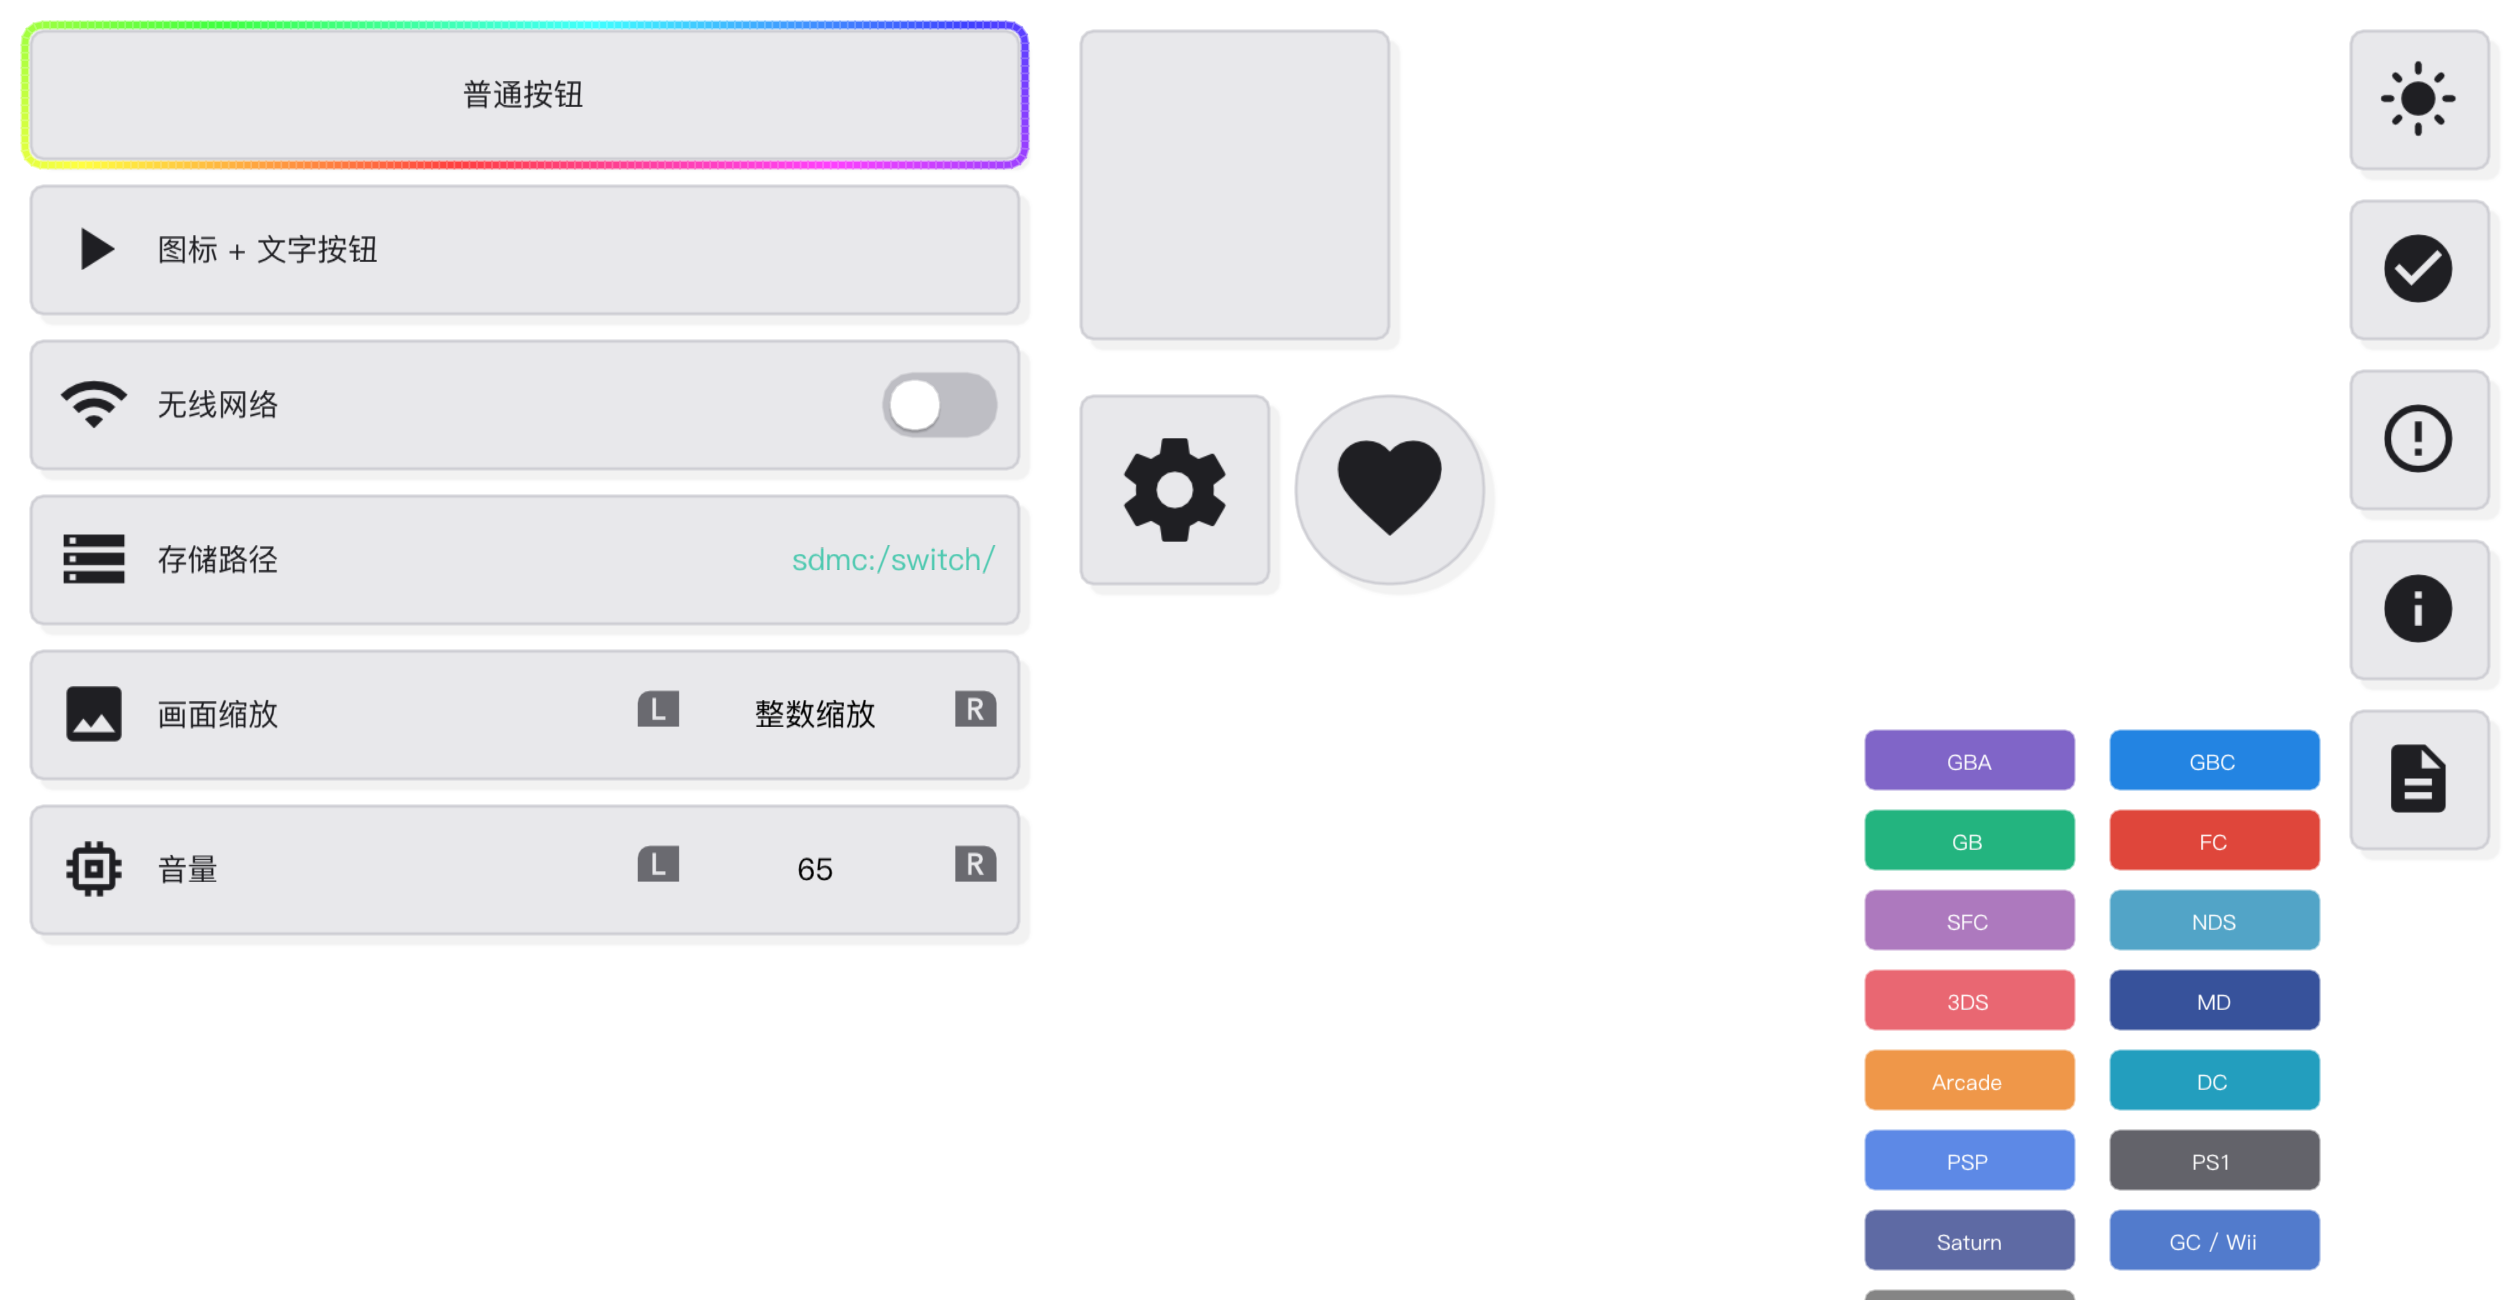
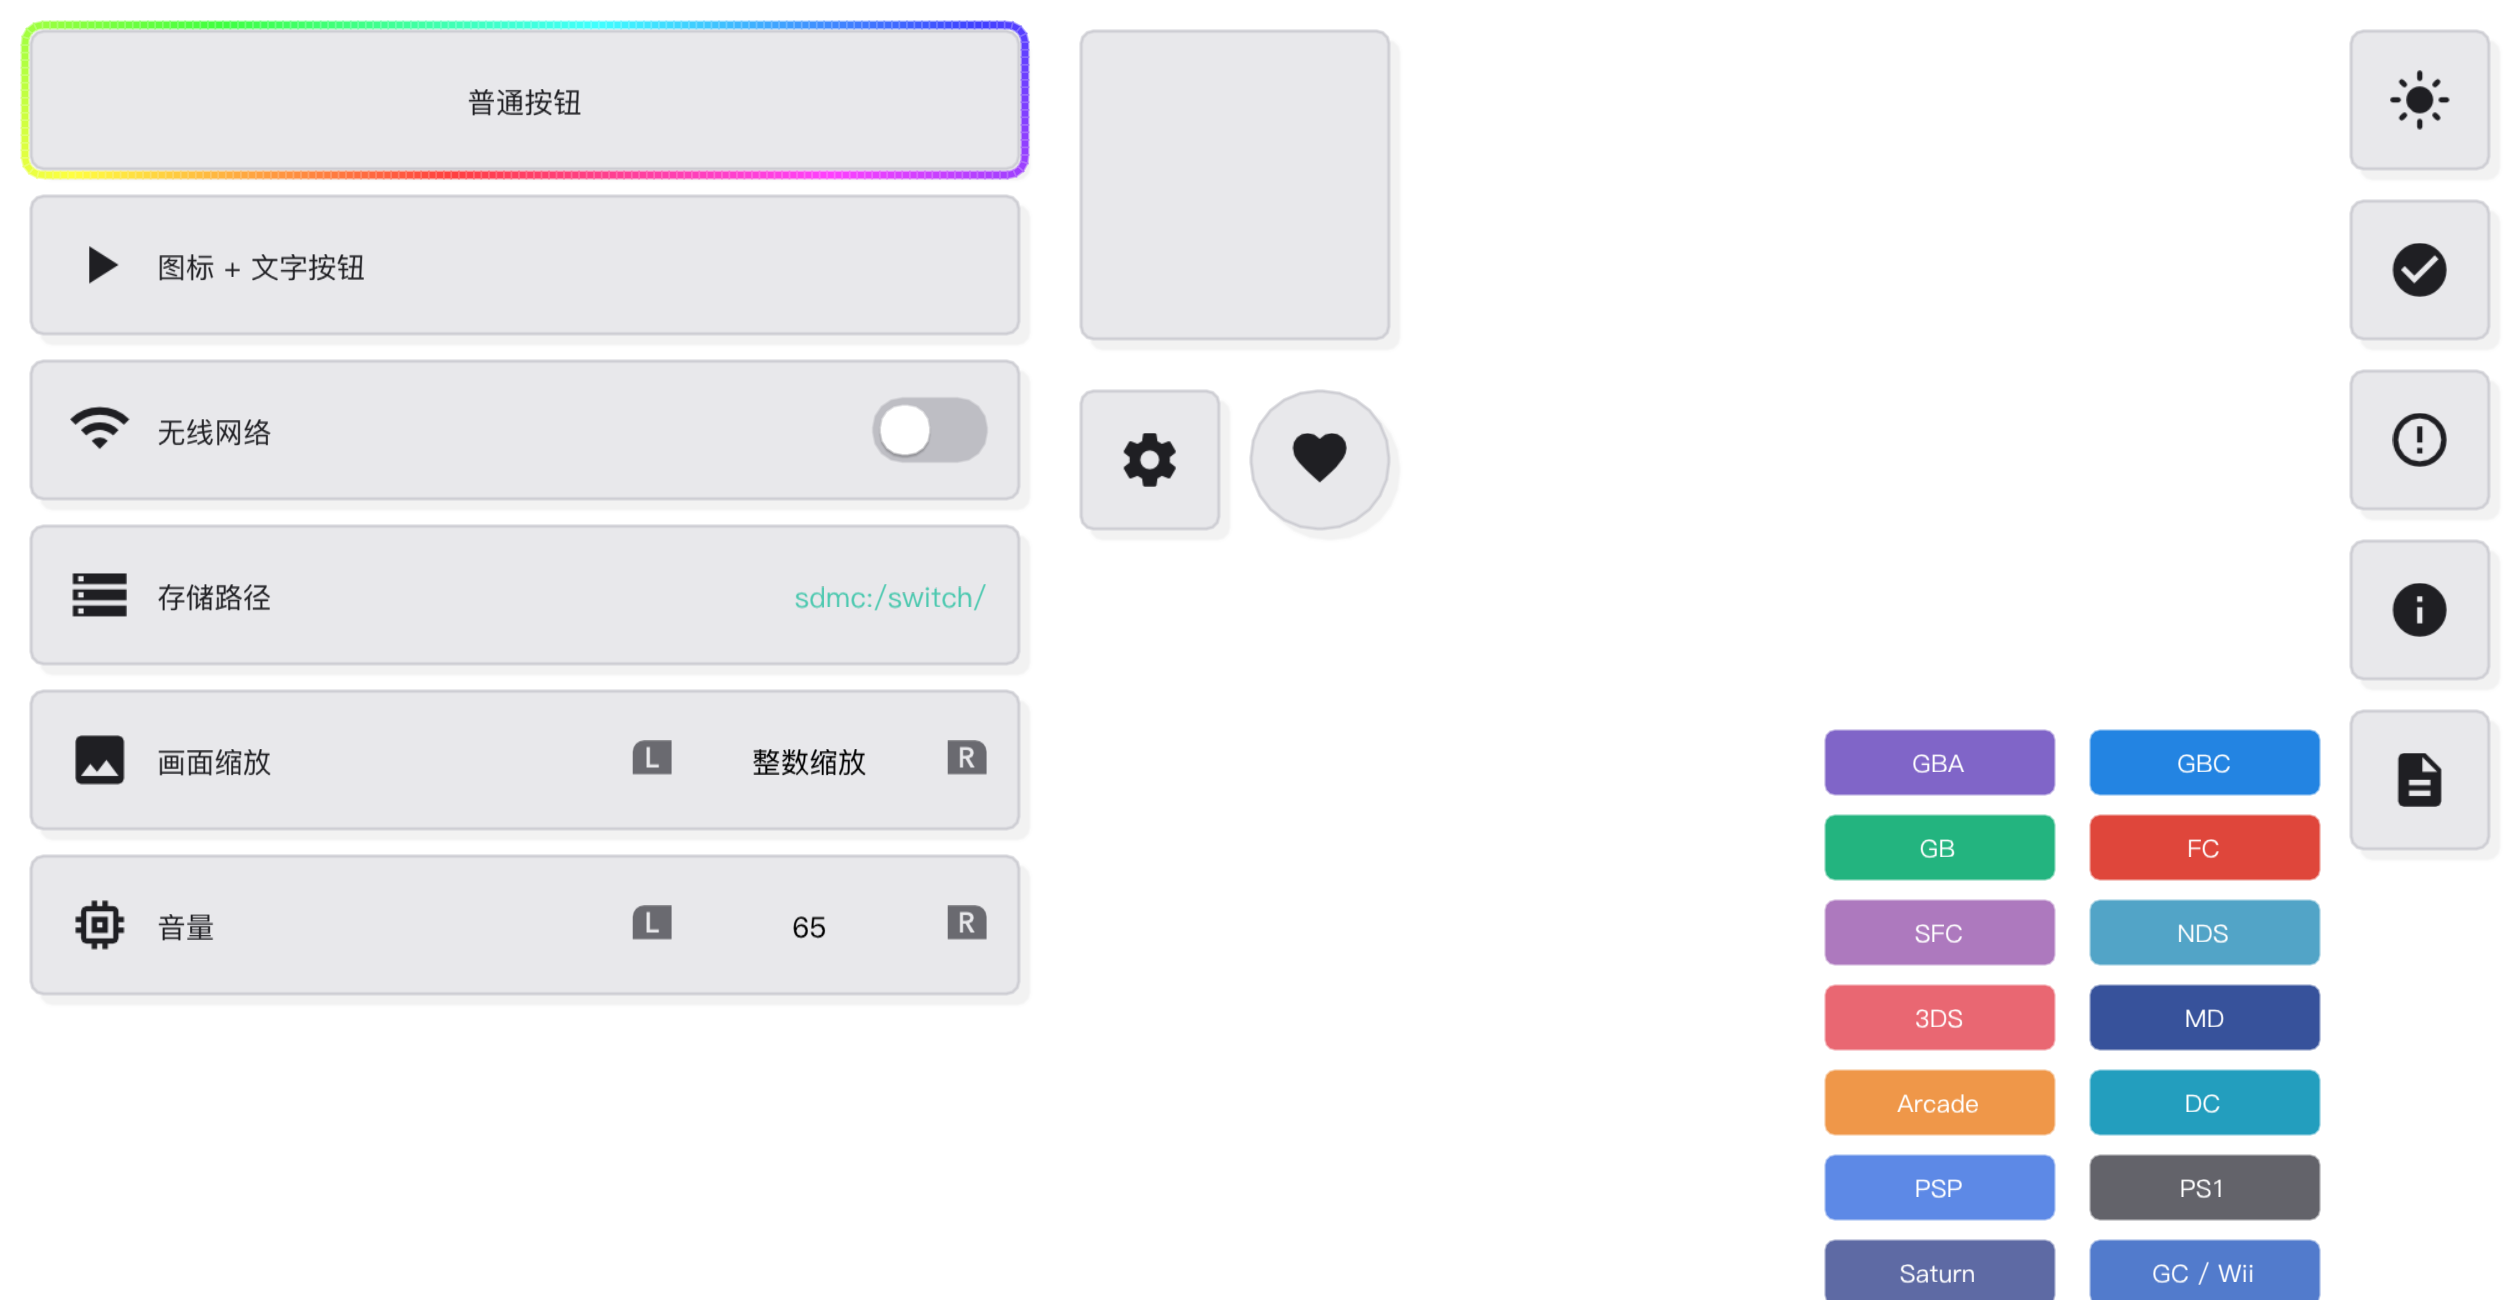
统一字号与控件尺寸（参考 GBAStation SettingPage）
尺寸只留一处定义：component_view/Theme.h 的常量，组件与 demo 全部引用，不再各写一套字面量。
基准抄 GBAStation src/ui/page/SettingPage.cpp 的手持尺寸：
- 字号：kFontTitle 26→22、kFontHeader 19→20（SettingPage 的 SettingsSectionHeaderView
  nvgFontSize 20、行高 58）、kFontBody 17→16（页面里最常用）、kFontSmall 13→14（makeHint 的
  setFontSize(14.f)）、kFontTiny 11→12。
- 控件：kControlHeight 34→**56**（SettingPage 标题行 58、卡片行 54~60）；新增 kBadgeHeight = 26。
- 内容留白：component_style.content_padding 8→12。

组件改为引用常量：
- Button：默认字号 = kFontBody、subtitle = kFontSmall、最小高 = kControlHeight（图标格仍=内容高度）；
- Badge：默认字号 = kFontSmall(14)、高 = kBadgeHeight(26)；
- Toast：正文 = kFontBody(16)、最小高 = kControlHeight(56)、内边距 16/12、图标 22；
- demo：左列按钮高 = kControlHeight、图标按钮边长 = kControlHeight(56×56)、控制列按钮 = kControlHeight。

实测（1.25 倍缩放抓帧量像素）：左列 6 个按钮与控制列 5 个按钮每个 56 高、间距 10；
图标按钮 56×56（说明行在下方）；Toast 高 56（色条 22..74）；徽标统一 92×26、两列、行距 32、白字。
mac Debug/Release + Switch 均编译通过；ctest 全绿；6 个 demo 退出码 0；快照已更新。

diff --git a/demo.cpp b/demo.cpp
@@ -63,7 +63,7 @@ public:
         // 右下角阴影 / 流光聚焦框（与按钮留 2px 边距）。单个按钮可以用 setBorder() 等覆盖。
         const float x = 20.0f;
         const float width = 396.0f;
-        const float height = 52.0f;
+        const float height = Theme::kControlHeight; // 统一行高（56）
         const float gap = 10.0f;
         float cursor = 20.0f;
         const auto place = [&](Button* button, const char* name) {
@@ -132,16 +132,16 @@ public:
         // 3 纯图标按钮：只有圆角正方形和圆形两种形态，边长 setSide()；
         // 有说明行时说明行落到图标下方居中（图标格自动给说明行让位）
         IconButton* icon_square = Root().Emplace<IconButton>(Icons::Glyph(Icons::Material::Settings));
-        icon_square->setSide(76.0f);
+        icon_square->setSide(Theme::kControlHeight);
         icon_square->setShape(IconButtonShape::RoundedSquare);
         icon_square->setSubtitle("圆角方形");
-        icon_square->moveTo(440.0f, 166.0f);
+        icon_square->moveTo(440.0f, kIconRowY);
         buttons_.push_back(icon_square);
 
         IconButton* icon_circle = Root().Emplace<IconButton>(Icons::Glyph(Icons::Material::Favorite));
-        icon_circle->setSide(76.0f);
+        icon_circle->setSide(Theme::kControlHeight);
         icon_circle->setShape(IconButtonShape::Circle);
-        icon_circle->moveTo(526.0f, 166.0f);
+        icon_circle->moveTo(440.0f + Theme::kControlHeight + 12.0f, kIconRowY);
         icon_circle->setSubtitle("圆形");
         buttons_.push_back(icon_circle);
 
@@ -263,7 +263,8 @@ public:
 
 private:
     // 控制列参数：贴右边缘 20px，按钮边长 56px
-    static constexpr float kControlSize = 56.0f;
+    static constexpr float kControlSize = Theme::kControlHeight; // 统一控件尺寸（56）
+    static constexpr float kIconRowY = 164.0f; // 两个图标按钮的 y（在 Box 下方）
     static constexpr float kControlRight = 20.0f;
     static constexpr float kControlTop = 20.0f;
 
@@ -276,8 +277,8 @@ private:
 
     // 徽标墙几何
     // 徽标墙：两列，统一尺寸
-    static constexpr float kBadgeWidth = 84.0f;
-    static constexpr float kBadgeHeight = 24.0f;
+    static constexpr float kBadgeWidth = 92.0f;
+    static constexpr float kBadgeHeight = Theme::kBadgeHeight; // 统一标签高（26）
     static constexpr float kBadgeGapX = 14.0f;
     static constexpr float kBadgeGapY = 8.0f;
     static constexpr float kBadgeTop = 300.0f;

diff --git a/component_view/Theme.h b/component_view/Theme.h
@@ -102,13 +102,16 @@ inline constexpr ImVec4 kShadow = rgba(0, 0, 0, 140); // #0000008C
 inline constexpr ImVec4 kShadowSoft = rgba(0, 0, 0, 80); // #00000050
 
 // ---- 尺寸（720p 设计空间，后端按 UiScale 统一放大） -------------------------
-// 基准是「720p 手持屏」：字号/行高/间距都按在 6 寸屏上握着看设计，
-// 不是桌面显示器上看的比例。改这里就能整体调整密度。
-inline constexpr float kFontTitle  = 26.0f;
-inline constexpr float kFontHeader = 19.0f;
-inline constexpr float kFontBody   = 17.0f;
-inline constexpr float kFontSmall  = 13.0f;
-inline constexpr float kFontTiny   = 11.0f;
+// 基准对齐 GBAStation 的 SettingPage（borealis 那套手持尺寸）：
+//   区块标题 20~22 / 正文 16 / 说明 14 / 极小 12
+//   行高（按钮、列表行）56：SettingPage 的标题行 58、卡片行 54~60 都落在这个量级
+//   标签（机种徽标）26 高，字号用说明字号 14
+// 组件（Box / Button / Badge / Toast）只允许引用这里的常量，不要再各写一套字面量。
+inline constexpr float kFontTitle  = 22.0f; // 大标题 / 卡片标题
+inline constexpr float kFontHeader = 20.0f; // 区块标题（SettingPage 的 section header = 20）
+inline constexpr float kFontBody   = 16.0f; // 正文：按钮主文字、Toast 正文
+inline constexpr float kFontSmall  = 14.0f; // 说明行 / 提示 / 徽标文字
+inline constexpr float kFontTiny   = 12.0f; // 极小号
 
 inline constexpr float kRadiusNone  = 0.0f;
 inline constexpr float kRadiusSmall = 3.0f;
@@ -119,7 +122,8 @@ inline constexpr float kGapSmall = 6.0f;
 inline constexpr float kGap      = 10.0f;
 inline constexpr float kGapLarge = 16.0f;
 
-inline constexpr float kControlHeight = 34.0f;
+inline constexpr float kControlHeight = 56.0f; // 按钮 / 列表行统一高度
+inline constexpr float kBadgeHeight   = 26.0f; // 机种徽标（标签）高度
 inline constexpr float kListRowHeight = 32.0f;
 inline constexpr float kKeySize       = 30.0f;
 

diff --git a/component_view/Toast.h b/component_view/Toast.h
@@ -19,6 +19,7 @@
 
 #include <imgui.h>
 
+#include "component_view/Theme.h"
 #include "component_view/Types.h"
 
 namespace gui_dev::cv {
@@ -40,14 +41,14 @@ enum class ToastState {
 struct ToastStyle {
     float min_width = 200.0f;
     float max_width = 320.0f;
-    float min_height = 44.0f;
+    float min_height = Theme::kControlHeight; // 和按钮/行高一致（56）
     float bar_width = 4.0f;     // 左侧状态色条宽度
     float bar_inset = 2.0f;     // 色条离边框的留白（左/上/下都是它）
-    float icon_size = 20.0f;    // Material 图标字号
+    float icon_size = 22.0f;    // Material 图标字号
     float gap = 10.0f;          // 色条 ↔ 图标 ↔ 文本 的间距
-    float padding_x = 14.0f;    // 色条之外的内容左右留白
-    float padding_y = 10.0f;    // 内容上下留白
-    float text_size = 15.0f;    // 文本字号（0 = 用 Theme::kFontBody）
+    float padding_x = 16.0f;    // 色条之外的内容左右留白
+    float padding_y = 12.0f;    // 内容上下留白
+    float text_size = Theme::kFontBody; // 文本字号统一 16
     float enter_duration = 0.25f;
     float exit_duration = 0.25f;
     float visible_duration = 3.0f; // 入场完成之后才开始算

diff --git a/component_view/components/Badge.h b/component_view/components/Badge.h
@@ -57,8 +57,8 @@ enum class BadgeStyle {
 
 // 变体的几何参数（宿主也能直接读，不必建控件）
 struct BadgeStyleParams {
-    float font_size = 12.0f;
-    float height = 20.0f;
+    float font_size = Theme::kFontSmall; // 统一尺寸：14
+    float height = Theme::kBadgeHeight;  // 统一尺寸：26
     float min_width = 36.0f;
     float pad_x = 8.0f;
     float radius = 4.0f;             // <0 = 胶囊（height / 2）
@@ -80,8 +80,8 @@ public:
     std::string text;
     ImVec4 background = Theme::rgba(100, 100, 100, 200);
     ImVec4 foreground = Theme::kTextPrimary;
-    float font_size = 12.0f;
-    float height = 20.0f;
+    float font_size = Theme::kFontSmall; // 统一尺寸：14
+    float height = Theme::kBadgeHeight;  // 统一尺寸：26
     float min_width = 36.0f;
     float pad_x = 8.0f;
     float radius = 4.0f;

diff --git a/component_view/Global.h b/component_view/Global.h
@@ -47,7 +47,7 @@ struct ComponentStyle {
     float focus_saturation = 0.75f; // 流光颜色饱和度（0 = 白灰流光）
     float focus_brightness = 1.0f;
     // 内容
-    float content_padding = 8.0f; // 内容到边框的留白（图标四周等距就是靠它）
+    float content_padding = 12.0f; // 内容到边框的留白（图标四周等距就是靠它）
     // LR 选择器（OptionButton / ValueButton）：[L] 固定间隔 [R] 里那一格的宽度
     float lr_slot_width = 90.0f;
     // 上面那一格放不下时，文字横向滚动显示

diff --git a/README.md b/README.md
@@ -237,6 +237,27 @@ kTextPrimary / kAccent / kControlBorder / kSwitchOff / kSwitchKnob` 等都是这
 > `framework/ui/Icons.h` 里新增了 `LightMode`(U+E518) / `DarkMode`(U+E51C) 两个 Material 图标，
 > 主题切换按钮用它。字形自检（启动时打印）会核对覆盖率：现在是 16 个按键图标 + 37 个 Material 图标。
 
+### 字号与控件尺寸统一（对齐 GBAStation SettingPage）
+
+尺寸只有一处定义：`component_view/Theme.h` 的尺寸常量；组件（Box / Button / Badge / Toast）与 demo
+都引用它，不再各写一套字面量。基准抄的是 GBAStation `src/ui/page/SettingPage.cpp` 那套手持尺寸：
+
+| 角色 | 值 | SettingPage 里的对应 |
+|---|---|---|
+| 大标题 / 卡片标题 | `kFontTitle` = 22 | 捕获卡片标题 26、区块标题 20 之间 |
+| 区块标题 | `kFontHeader` = 20 | `SettingsSectionHeaderView` 的 `nvgFontSize(vg, 20.f)`，行高 58 |
+| 正文（按钮主文字 / Toast 正文） | `kFontBody` = 16 | 页面里最常用的字号（16 出现 15 次） |
+| 说明行 / 提示 / 徽标文字 | `kFontSmall` = 14 | `makeHint` 的 `setFontSize(14.f)`，边距 4/10/16/16 |
+| 极小号 | `kFontTiny` = 12 | 次要标注 |
+| 按钮 / 列表行高 | `kControlHeight` = 56 | 标题行 58、卡片行 54~60 → 取中间值 |
+| 标签（机种徽标）高 | `kBadgeHeight` = 26 | 徽标/标签量级 |
+| 内容留白 | `component_style.content_padding` = 12 | hint 左右 16、容器 padding 12/24/24/24 |
+
+于是所有控件一眼同高：左列按钮 56、图标按钮 56×56（边长 = 行高）、右侧控制列 56、
+Toast 最小高 56；正文统一 16、说明行统一 14、徽标统一 26 高 + 白字。
+实测（1.25 倍缩放下量像素）：左列/控制列每个按钮 56 高、间距 10；Toast 高 56；
+徽标 92×26 两列、行距 32。
+
 ### 焦点与导航（Box 既能当容器，也能当控件）
 
 一个 Box 有两种身份，按需要开关：
@@ -784,6 +805,14 @@ git -C third_party/imgui fetch --tags     # 升级 imgui 用
   关掉说明行后主文字就停在偏上 8px 的位置；现在按文字块自己的高度居中。
   实测（说明行关）：无线网络主文字墨迹中心 169.5 / 存储路径 231.5 vs 按钮中心 170 / 232；
   普通按钮（无说明行）主文字墨迹中心 y=45.5、x=217 vs 按钮中心 (46, 218)。
+- 已确认（尺寸统一，参考 GBAStation SettingPage）：`component_view/Theme.h` 的字号/控件高改成
+  参考 SettingPage 的一套值（标题 22 / 区块 20 / 正文 16 / 说明 14 / 极小 12、控件高 **56**、
+  标签高 26、内容留白 12），组件与 demo 全部改引用常量：Button 默认字号 = kFontBody、
+  subtitle = kFontSmall、最小高 = kControlHeight；Badge 字号 = kFontSmall、高 = kBadgeHeight；
+  Toast 正文 = kFontBody、最小高 = kControlHeight、内边距 16/12、图标 22；
+  demo 的左列按钮 / 图标按钮边长 / 控制列按钮全部 = kControlHeight。
+  实测：左列与控制列每个按钮 56 高、间距 10；图标按钮 56×56；Toast 高 56；
+  徽标统一 92×26、两列、行距 32、白字。mac Debug/Release + Switch 编译通过、ctest 全绿、6 个 demo 退出码 0。
 - 已确认（第六轮反馈修复）：
   ① **缩放崩溃**：运行期点放大后 mac 必崩（Metal `AGX … Region width OOB`），逐项实验定位到
   「运行期改 SDL 渲染缩放」这一条路径（把 SDL 缩放固定住或跳过 ImGui 绘制都不崩；字体图集尺寸
